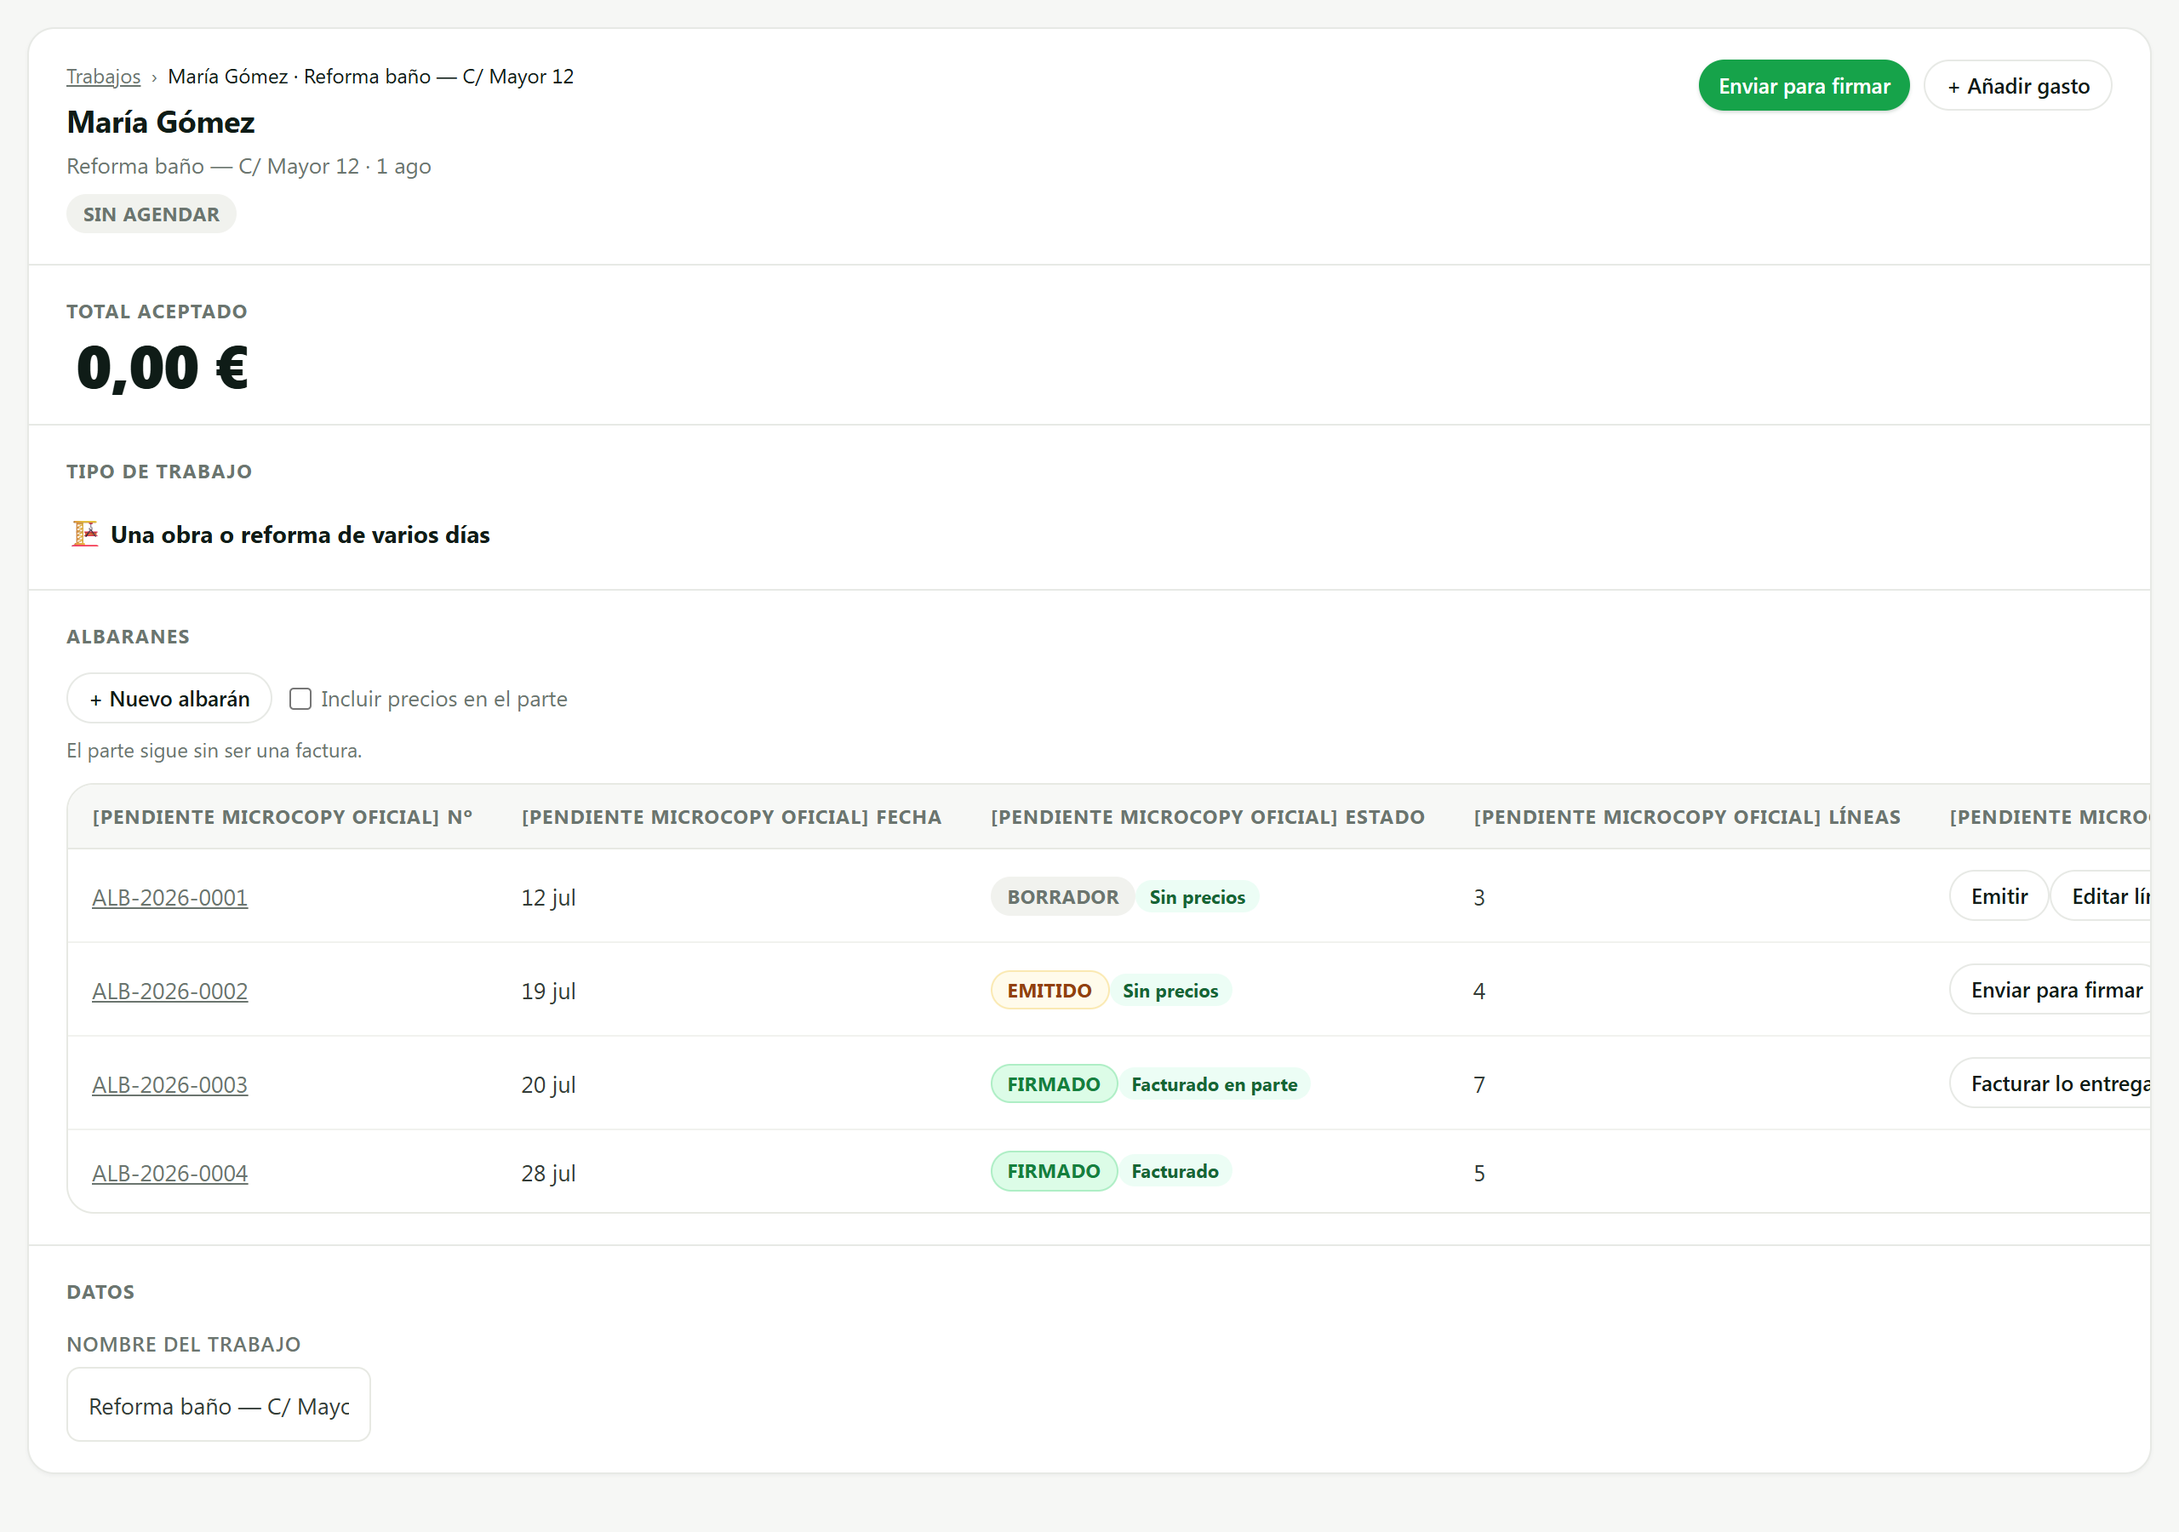
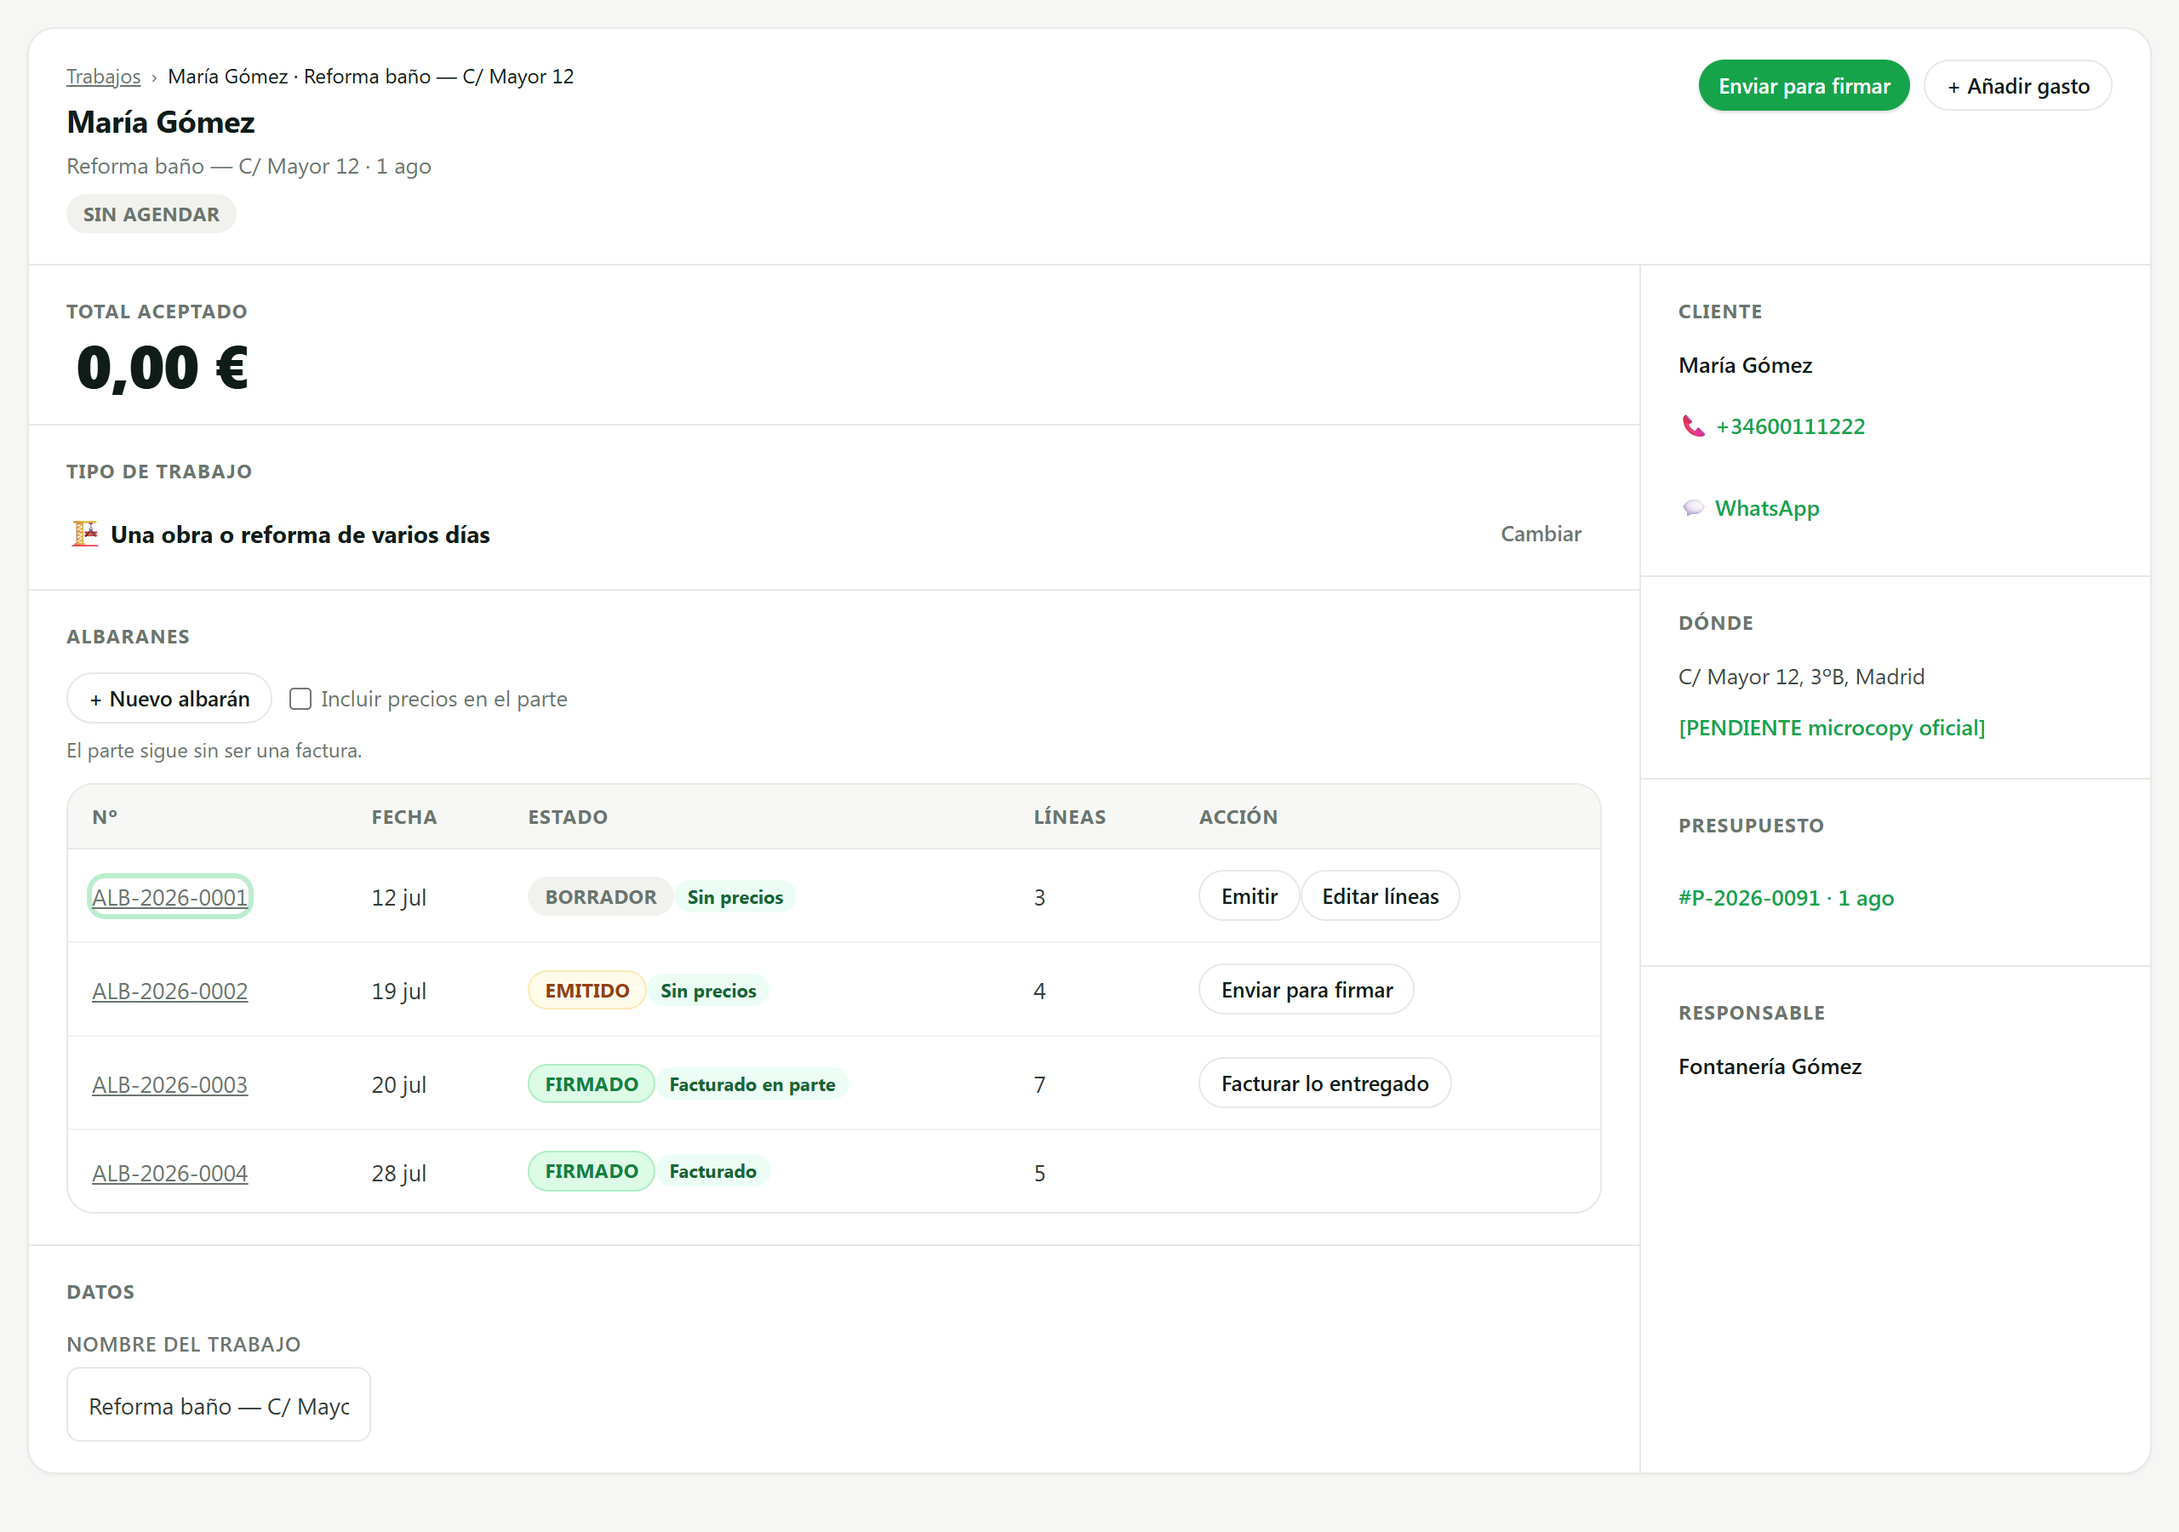
copy(SCRUM-304): rotulos de columna APROBADOS, y el AB6 medido de verdad
Los cinco tal cual: Nº · Fecha · Estado · Líneas · Acción. Son los del ticket y
describen lo que hay debajo. Fuera el marcador, y el guard cambia de trabajo: antes
exigia [PENDIENTE microcopy oficial], ahora compara columna a columna contra el
aprobado. Con su rojo.

LA REGLA QUE SALE DE AQUI: 29 caracteres de marcador por CINCO columnas sacaban la
tabla de la pantalla. Eso no era maquetacion, era el coste del marcador. CON MARCADOR
NO SE JUZGA EL LAYOUT: solo se comprueba que el marcador este. Segunda vez hoy, tras
las diez pestanas de Configuracion.

LO QUE SIGUE SIN CABER, Y SE DICE: con los rotulos aprobados entran Nº, Fecha y
Estado, pero Lineas y Accion SIGUEN fuera a 390 px -- alcanzables scrollando. Ahora el
ancho se lo come la columna Estado con su pill MAS los badges de facturacion. La
palanca obvia es quitar esos badges y hay argumento de C2 ("facturado es CONTEXTO, no
estado"), pero es informacion que hoy ve el profesional: decision del fundador, no se
toma de paso.

FOCO Y TARGETS: MEDIDOS, no supuestos, que era el hueco declarado.
  · anillo de foco: SI (por box-shadow), visible en la captura
  · botones de accion (btn-secondary btn-sm): 30 px  -> por debajo de 44
  · enlace del numero (.detail-miga-link): 20 px     -> por debajo de 44
No lo introduce esta tarea (salen de mkBtn, y .btn-sm esta fuera del bump de SCRUM-352
a proposito, su censo lo declara con :not(.btn-sm)), pero esta tabla los convierte en
[…]

diff --git a/public/dashboard/js/jobDetailView.js b/public/dashboard/js/jobDetailView.js
@@ -185,12 +185,18 @@ function destinoEnFila(id, alb) {
 // tiene aprobados. Escribirlos otra vez sería la segunda lista de siempre, y divergirían el día que
 // alguien retoque una. `albaranDetailView.js` se carga ANTES que este fichero en `index.html` y hay
 // guard de ese orden: si alguien lo cambia, sale rojo en vez de dejar la columna muda.
+// MICROCOPY APROBADA por el fundador el 5-ago-2026 (regla 30), los cinco tal cual. Ya no llevan
+// `[PENDIENTE microcopy oficial]`, y el guard compara contra el texto aprobado uno a uno.
+//
+// ⚠ Y NO ERA SOLO UN RÓTULO: con el marcador, la cabecera medía 29 caracteres de más POR COLUMNA
+// y sacaba de pantalla las tres últimas columnas a 390 px. De ahí la regla que salió de aquí —
+// CON MARCADOR NO SE JUZGA EL LAYOUT, solo se comprueba que el marcador esté.
 const ALB_TABLA_COPY = {
-  colNumero: '[PENDIENTE microcopy oficial] Nº',
-  colFecha: '[PENDIENTE microcopy oficial] Fecha',
-  colEstado: '[PENDIENTE microcopy oficial] Estado',
-  colLineas: '[PENDIENTE microcopy oficial] Líneas',
-  colAccion: '[PENDIENTE microcopy oficial] Acción',
+  colNumero: 'Nº',
+  colFecha: 'Fecha',
+  colEstado: 'Estado',
+  colLineas: 'Líneas',
+  colAccion: 'Acción',
 };
 
 // ── SCRUM-303 (C4) · QUÉ SE ABRE AL PULSAR «NUEVO ALBARÁN», Y POR QUÉ ─────────────────────────

diff --git a/docs/capturas/scrum-304/README.md b/docs/capturas/scrum-304/README.md
@@ -2,7 +2,8 @@
 
 **Medido contra:** `origin/main` = `56874623baa406a0e8e38b93c236f7a4740b1e6a` · 2026-08-05T16:43:57+01:00
 
-> ⚠ **AB6 NO FIRMADO.** Estas capturas documentan un problema abierto, no una entrega limpia.
+> **Microcopy APROBADA** (5-ago-2026, los cinco rótulos tal cual): estas capturas son las del texto
+> definitivo. Queda **un punto medido y sin resolver**, en su sección.
 
 Banco aislado (puppeteer-core sobre el Edge instalado + servidor estático efímero sirviendo
 `public/`), con los **41 scripts que carga `dashboard/index.html` en su orden** y la vista REAL
@@ -14,13 +15,6 @@ CSS de verdad) y traer **una fila por albarán**. Si no, para y no informa.
 
 ## Los cuatro casos de la columna Acción, en una sola pantalla
 
-El fixture lleva un albarán por caso, y el banco imprime lo que sale:
-
-```
-filas: 4 · acciones: ["Emitir" + "Editar líneas", "Enviar para firmar",
-                      "Facturar lo entregado", "(vacía)"]
-```
-
 | Albarán | Estado | Acción |
 |---|---|---|
 | ALB-2026-0001 | `borrador` | **Emitir** (navega al detalle) + `Editar líneas` |
@@ -28,25 +22,43 @@ filas: 4 · acciones: ["Emitir" + "Editar líneas", "Enviar para firmar",
 | ALB-2026-0003 | `firmado` · facturado **a medias** | **Facturar lo entregado** (ejecuta aquí) |
 | ALB-2026-0004 | `firmado` · facturado del todo | **(vacía)** — C2 dice que no hay siguiente paso |
 
-## 🔴 Lo que enseña la captura y la suite no ve
+## 390 px — iPhone estándar
 
 ![tabla 390](scrum304-tabla-390.png)
 
-**A 390 px solo se ven `Nº` y `Fecha`. `Estado`, `Líneas` y `Acción` quedan fuera de pantalla.**
+### 🔴 La primera tanda medía el MARCADOR, no la pantalla
 
-La causa está en la propia imagen: `[PENDIENTE MICROCOPY OFICIAL] Nº` ocupa casi toda la primera
-columna. El marcador mide **29 caracteres por columna** y hay cinco columnas.
+Con `[PENDIENTE microcopy oficial]` delante de cada nombre de columna —**29 caracteres por columna,
+cinco columnas**— solo cabían `Nº` y `Fecha`. Eso no era maquetación: era el coste del marcador.
 
-Dos cosas ya hechas para mitigarlo, y una tercera que depende del fundador:
+> **CON MARCADOR NO SE JUZGA EL LAYOUT. Solo se comprueba que el marcador esté.**
 
-1. El envoltorio de ESTA tabla pasa a `overflow-x: auto`, así que la columna Acción al menos se
-   **alcanza** scrollando. **No se tocó `.table-wrap`** (`overflow: hidden`, `styles.css:590`): es
-   compartida con otras cinco pantallas y ninguna está medida en este ticket.
-2. La fecha se acorta a «12 jul». `docDate` da «12 jul 2026, 11:15» y empujaba sola la columna
-   Acción fuera; el día y el mes distinguen una entrega de otra, y la hora vive en el detalle.
-3. **Falta aprobar los cinco rótulos.** Con `Nº`, `Fecha`, `Estado`, `Líneas`, `Acción` la cabecera
-   cae a una fracción de lo que mide hoy. Hasta entonces esto no se mergea: una tabla cuya única
-   acción hay que buscar scrollando es justo lo que el ticket viene a arreglar.
+### Lo que SIGUE sin caber, dicho sin adornos
+
+Con los rótulos aprobados entran `Nº`, `Fecha` y `Estado`. **`Líneas` y `Acción` siguen fuera a
+390 px**, alcanzables scrollando: el envoltorio de ESTA tabla se pasó a `overflow-x: auto` — **no se
+tocó la clase compartida `.table-wrap`** (`overflow: hidden`, `styles.css:590`), que la usan otras
+cinco pantallas sin medir.
+
+Lo que ahora se come el ancho es la columna Estado, con el pill **más** los badges de facturación
+(`BORRADOR` + `Sin precios`, `FIRMADO` + `Facturado en parte`). Quitar esos badges de la tabla es la
+palanca obvia, y hay argumento de C2 —«facturado es CONTEXTO, no estado»— con la columna Acción ya
+codificándolo. Pero es información que hoy ve el profesional: **decisión del fundador, no se toma de
+paso**.
+
+### Foco y targets: MEDIDOS, no supuestos
+
+| | A 390 px | AB6 |
+|---|---|---|
+| Anillo de foco | **SÍ** (por `box-shadow`; se ve en la captura sobre ALB-2026-0001) | ✅ |
+| Botones de acción (`btn-secondary btn-sm`) | **30 px** | 🔴 < 44 |
+| Enlace del número (`.detail-miga-link`) | **20 px** | 🔴 < 44 |
+
+**No lo introduce esta tarea:** los botones salen de `mkBtn`, el constructor que ya usaba toda la
+vista, y `.btn-sm` está **deliberadamente fuera** del bump de SCRUM-352 (su censo lo declara con
+`:not(.btn-sm)`). Pero esta tabla los convierte en la superficie principal de los albaranes, así que
+aquí duele más que antes. Se reporta, no se arregla de paso: subir `.btn-sm` alcanza a todo el
+producto y es su propio ticket.
 
 ## Escritorio — 1280 px
 
@@ -65,16 +77,15 @@ no se ha tocado.
 |---|---|
 | Componentes | `.table` / `.table-wrap` / `.status-pill` / `.detail-miga-link` del inventario AB3. **Cero componentes nuevos, cero tokens nuevos** |
 | Estados empty | ✅ capturado — sin albaranes no hay tabla |
+| Focus visible | ✅ **medido** |
+| Targets ≥44 px | 🔴 **medido y NO cumple** (30 px / 20 px) — reportado arriba |
+| Responsive 390 px | 🔴 **NO cumple**: `Líneas` y `Acción` fuera de pantalla, alcanzables por scroll |
 | Contraste AA | Pills y tabla con los tonos existentes, sin colores inventados |
-| Responsive 390 px | 🔴 **NO CUMPLE** — ver arriba. Alcanzable por scroll, pero la acción no está a la vista |
-| Textos largos | Es exactamente el problema abierto: el marcador de microcopy es el texto más largo posible |
+| Textos largos | Los rótulos aprobados son los más cortos posibles; el caso peor (con marcador) también se midió |
 
 ### Huecos declarados
 
 - **Matriz de dispositivos (V0-5): HUECO.** Hay 390 px y 1280 px. **No hay Android de gama media,
   ni tablet, ni iPhone real**: el banco es Edge de escritorio con el viewport redimensionado, que no
   prueba fuentes del sistema, teclado en pantalla ni barra de navegador.
-- **Focus visible / targets ≥44 px**: no medidos en esta tanda. Los botones son `mkBtn`, el mismo
-  constructor de siempre, pero **no se ha comprobado en esta pantalla** y decirlo es más honesto que
-  heredarlo por suposición.
 - **Loading**: la tabla se pinta con el detalle del Trabajo, que ya se cargaba entero. Sin cambio.

diff --git a/docs/master/SCRUM-304.md b/docs/master/SCRUM-304.md
@@ -4,9 +4,9 @@
 
 **Medido contra:** `origin/main` = `56874623baa406a0e8e38b93c236f7a4740b1e6a` · 2026-08-05T16:43:57+01:00
 
-> ⚠ **NO MERGEAR TODAVÍA.** El código está completo y en verde, pero el AB6 **no está firmado**:
-> a 390 px la columna Acción se sale de pantalla, y la causa medida es el marcador de microcopy
-> pendiente. Se cierra aprobando los cinco rótulos y recapturando. Detalle abajo.
+> **Microcopy aprobada** (5-ago-2026, los cinco rótulos tal cual) y recapturado. Queda **una cosa
+> medida y sin resolver**, dicha en su sección: a 390 px `Líneas` y `Acción` siguen fuera de
+> pantalla, alcanzables por scroll. La palanca es de producto y no se toma de paso.
 
 ## 🔴 El censo corrige al ticket, y por eso va PRIMERO
 
@@ -90,21 +90,59 @@ se resuelve un nivel de indirección.
 `enSuSeccion` tenía **un solo llamante** (los albaranes) y se ha ido con él. Un ayudante que ya no
 llama nadie se pudre sin que nada lo diga. Misma norma que aplicó C2 al borrar `pdfBtn`/`fotoBtn`.
 
-## 🔴 Lo que falta para cerrar: AB6 y la microcopy
+## AB6: lo que la captura midió, y lo que queda dicho
 
-La captura enseñó lo que la suite no ve: **a 390 px solo caben Nº y Fecha; Estado, Líneas y Acción
-quedan fuera.** El envoltorio se pasó a `overflow-x: auto` para que al menos se pueda alcanzar
-scrollando —**no se tocó la clase compartida `.table-wrap`** (`overflow: hidden`, styles.css:590),
-que la usan otras cinco pantallas sin medir—, y la fecha se acortó a «12 jul» porque
+### 🔴 La primera tanda medía el MARCADOR, no la pantalla
+
+Con `[PENDIENTE microcopy oficial]` delante de cada nombre de columna —29 caracteres **por
+columna**, cinco columnas— la cabecera sacaba la tabla de la pantalla y a 390 px solo cabían `Nº` y
+`Fecha`. **Eso no era un problema de maquetación: era el coste del marcador.**
+
+> **Regla que sale de aquí (y es la segunda vez hoy, tras las diez pestañas de Configuración):
+> CON MARCADOR NO SE JUZGA EL LAYOUT. Solo se comprueba que el marcador esté.**
+
+Con los cinco rótulos aprobados (`Nº · Fecha · Estado · Líneas · Acción`) entran ya `Nº`, `Fecha` y
+`Estado`.
+
+### Lo que SIGUE sin caber a 390 px, dicho sin adornos
+
+**`Líneas` y `Acción` continúan fuera de pantalla.** Se alcanzan scrollando —el envoltorio de ESTA
+tabla se pasó a `overflow-x: auto`— pero **la única acción de la fila no está a la vista**, que es
+justo lo que el ticket viene a arreglar. Lo que ahora se come el ancho es la columna Estado, que
+lleva el pill **más** los badges de facturación (`BORRADOR` + `Sin precios`, `FIRMADO` +
+`Facturado en parte`).
+
+**La palanca obvia es quitar esos badges de la tabla**, y hay argumento de C2 para ello —«facturado
+no es un estado de la tabla, es CONTEXTO»— y la columna Acción ya lo codifica (celda vacía = nada
+que hacer). Pero es información que hoy ve el profesional, así que **es decisión del fundador y no
+se toma de paso**.
+
+**No se tocó `.table-wrap`** (`overflow: hidden`, `styles.css:590`): la comparten otras cinco
+pantallas sin medir, y cambiar un contenedor compartido para arreglar una tabla propia es el
+defecto de los 36 px en dirección contraria. Y la fecha se acortó a «12 jul» porque
 «12 jul 2026, 11:15» empujaba sola la columna Acción fuera.
 
-**Pero la causa de fondo es el marcador**: `[PENDIENTE microcopy oficial]` mide 29 caracteres **por
-columna**, y con cinco columnas infla la cabecera hasta sacar la tabla de la pantalla. Con los
-rótulos aprobados (`Nº`, `Fecha`, `Estado`, `Líneas`, `Acción`) la cabecera cae a una fracción.
+### Foco y targets: MEDIDOS, no supuestos
 
-**Por eso los cinco rótulos van al fundador para aprobación, y hasta entonces esto no se mergea:**
-una tabla cuya única acción hay que buscar scrollando es exactamente lo que este ticket viene a
-arreglar.
+| | Medido a 390 px | AB6 |
+|---|---|---|
+| Anillo de foco | **SÍ**, visible por `box-shadow` | ✅ |
+| Botones de acción (`btn-secondary btn-sm`) | **30 px** | 🔴 < 44 |
+| Enlace del número (`.detail-miga-link`) | **20 px** | 🔴 < 44 |
+
+**No lo introduce esta tarea:** los botones salen de `mkBtn`, el constructor que ya usaba toda la
+vista, y `.btn-sm` está **deliberadamente fuera** del bump de SCRUM-352 (su censo lo declara con
+`:not(.btn-sm)`). Pero esta tabla convierte esos controles en **la superficie principal** de los
+albaranes, así que aquí duele más que antes. Se reporta, no se arregla de paso: subir `.btn-sm` a 44
+alcanza a todo el producto y es su propio ticket.
+
+## Microcopy (regla 30) · APROBADA
+
+Los **cinco** nombres de columna los aprobó el fundador el 5-ago-2026, **tal cual**: `Nº` · `Fecha` ·
+`Estado` · `Líneas` · `Acción`. Son los del propio ticket y describen lo que hay debajo. El guard
+cambió de trabajo: antes exigía el marcador, ahora compara columna a columna contra el aprobado.
+
+Los rótulos de la ACCIÓN no son nuevos: salen de `ROTULOS_ALBARAN` (C2), ya aprobados.
 
 ## Lo que NO se tocó
 
